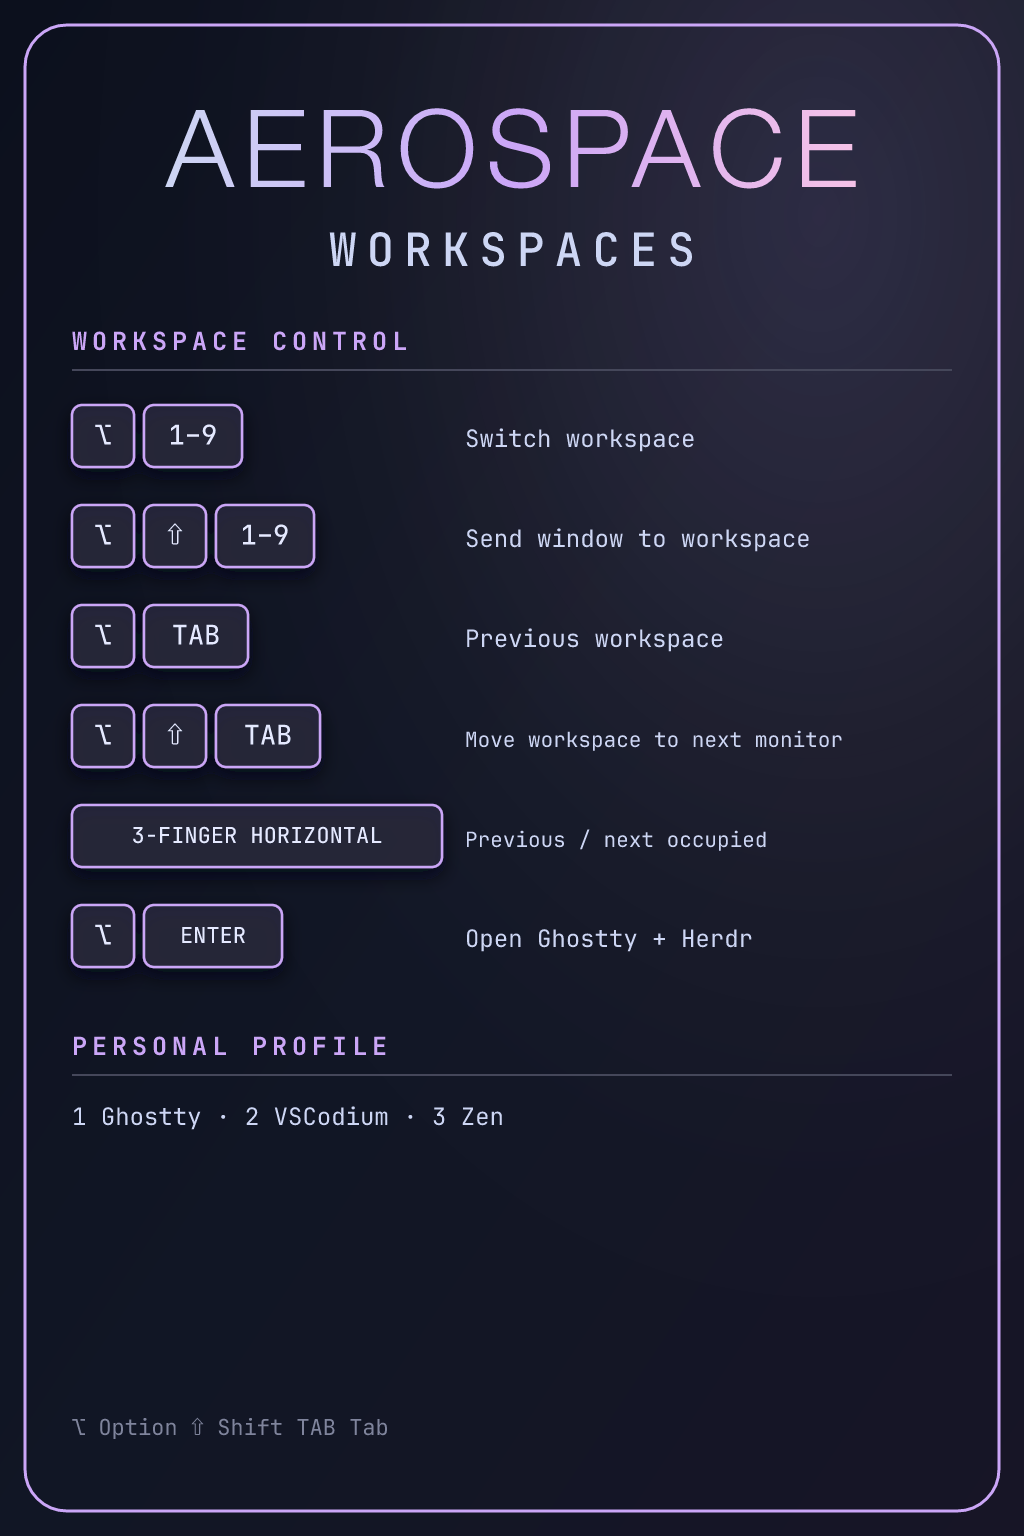
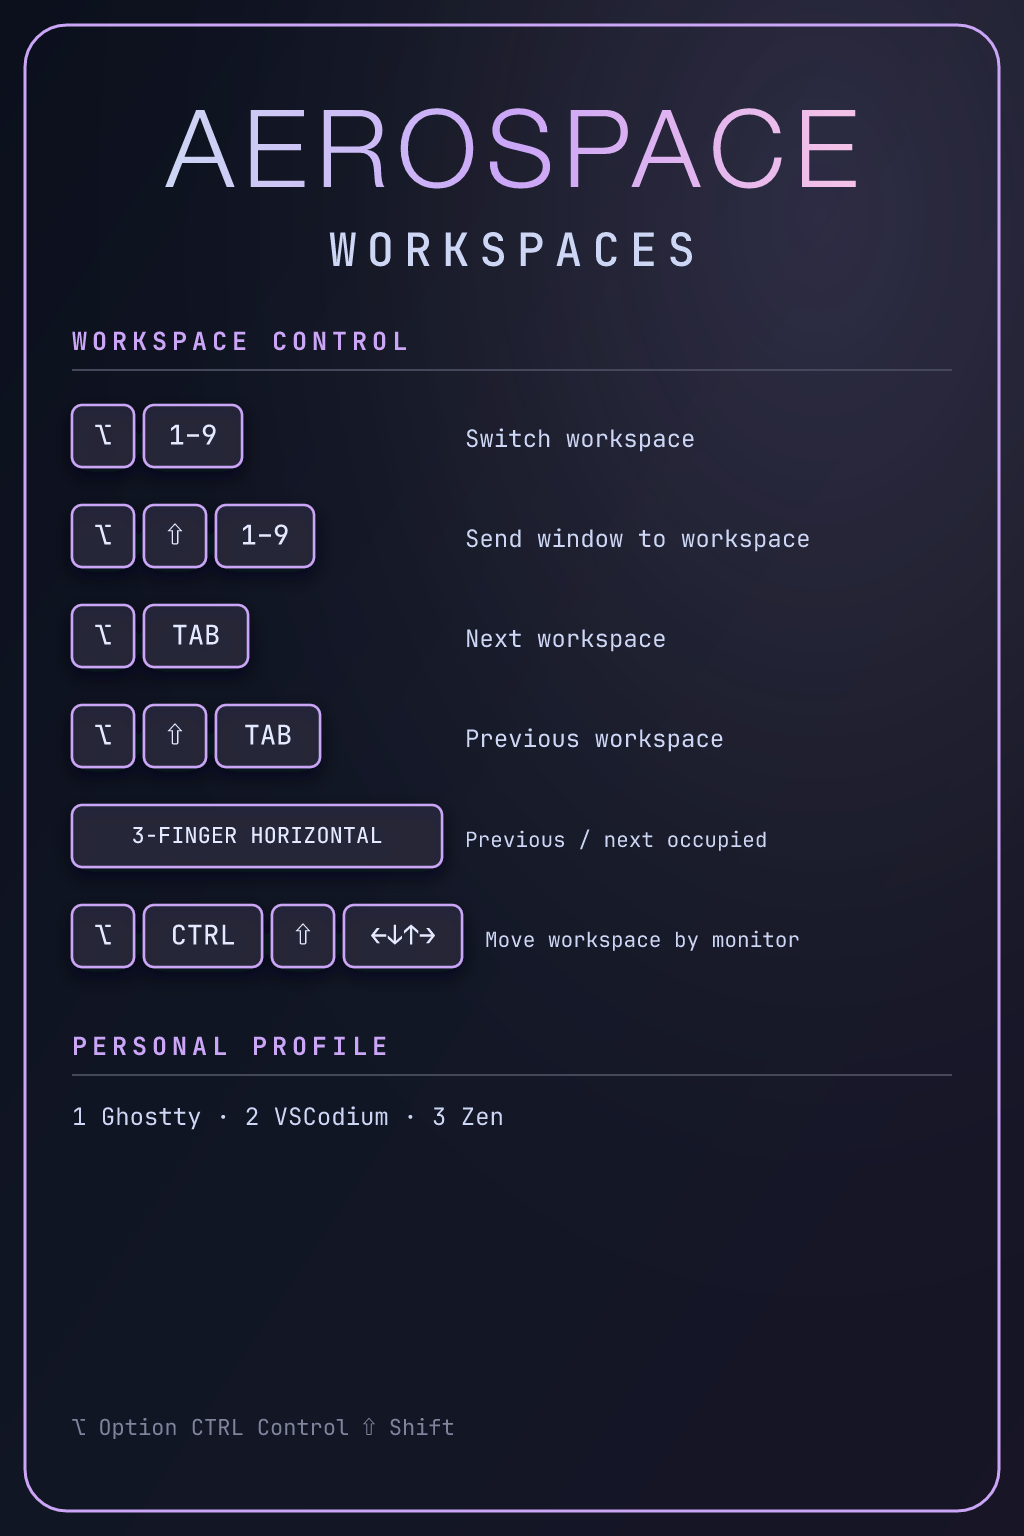
feat(aerospace): align navigation with Omarchy

diff --git a/docs/aerospace.md b/docs/aerospace.md
@@ -6,9 +6,10 @@ title: AeroSpace
 # AeroSpace workflow and keybinding cheat sheet
 
 
-The AeroSpace config uses numbered workspaces, Vim-style navigation, and fixed
-8px gaps. A supervised JankyBorders service provides focused-window
-highlighting. AeroSpace does not start SketchyBar, dynamic gap scripts, or tmux.
+The AeroSpace config uses numbered workspaces, Omarchy-compatible arrow-key
+navigation, optional Vim-style aliases, and fixed 8px gaps. A supervised
+JankyBorders service provides focused-window highlighting. AeroSpace does not
+start SketchyBar, dynamic gap scripts, or tmux.
 
 The `alt` modifier in the AeroSpace config is the macOS **Option (⌥)** key.
 Every modifier is written explicitly below; there is no implied `Mod` key.
@@ -82,14 +83,10 @@ restore.
 
 | Shortcut | Action |
 | --- | --- |
-| `Option (⌥) + H` | Focus the window to the left |
-| `Option (⌥) + J` | Focus the window below |
-| `Option (⌥) + K` | Focus the window above |
-| `Option (⌥) + L` | Focus the window to the right |
-| `Option (⌥) + Shift (⇧) + H` | Move the focused window left |
-| `Option (⌥) + Shift (⇧) + J` | Move the focused window down |
-| `Option (⌥) + Shift (⇧) + K` | Move the focused window up |
-| `Option (⌥) + Shift (⇧) + L` | Move the focused window right |
+| `Option (⌥) + Arrow` | Focus the window in that direction |
+| `Option (⌥) + H/J/K/L` | Focus left/down/up/right (Vim aliases) |
+| `Option (⌥) + Shift (⇧) + Arrow` | Move the focused window in that direction |
+| `Option (⌥) + Shift (⇧) + H/J/K/L` | Move left/down/up/right (Vim aliases) |
 | `Option (⌥) + Shift (⇧) + M` | Move the focused window to the next monitor and follow it |
 | `Option (⌥) + -` | Shrink the focused window by 50 pixels |
 | `Option (⌥) + =` | Grow the focused window by 50 pixels |
@@ -100,6 +97,7 @@ restore.
 | --- | --- |
 | `Option (⌥) + /` | Cycle tiled layout orientation |
 | `Option (⌥) + ,` | Cycle accordion layout orientation |
+| `Option (⌥) + T` | Toggle floating/tiling (Omarchy binding) |
 | `Option (⌥) + Shift (⇧) + Space` | Toggle floating/tiling |
 | `Option (⌥) + F` | Toggle native macOS fullscreen |
 | `Option (⌥) + Q` | Close the focused window |
@@ -123,12 +121,24 @@ bindings.
 | --- | --- |
 | `Option (⌥) + 1–9` | Switch to workspace 1–9 |
 | `Option (⌥) + Shift (⇧) + 1–9` | Move the focused window to workspace 1–9 |
-| `Option (⌥) + Tab (⇥)` | Switch to the previous workspace |
-| `Option (⌥) + Shift (⇧) + Tab (⇥)` | Move the current workspace to the next monitor |
+| `Option (⌥) + Tab (⇥)` | Switch to the next workspace |
+| `Option (⌥) + Shift (⇧) + Tab (⇥)` | Switch to the previous workspace |
+| `Option (⌥) + Control (⌃) + Tab (⇥)` | Return to the formerly focused workspace |
+| `Option (⌥) + Control (⌃) + Shift (⇧) + Arrow` | Move the current workspace to the monitor in that direction |
 
 [Open the full-size AeroSpace workspace shortcut card](assets/aerospace-workspaces-shortcuts.png).
 
 <a href="assets/aerospace-workspaces-shortcuts.png"><img src="assets/aerospace-workspaces-shortcuts.png" alt="AeroSpace workspace shortcut card" width="520"></a>
+
+The directional workspace move carries the entire AeroSpace workspace tree,
+including joined containers, to the other display. AeroSpace can create local
+groups with `join-with` in service mode, but it cannot currently select and move
+an arbitrary parent group by itself. Move the whole workspace when a joined
+group must stay intact across monitors.
+
+Finder, System Settings, and Calculator windows start floating. A Finder window
+can still be tiled with `Option (⌥) + T`, moved normally, or minimized with the
+standard macOS control.
 
 ### Resize mode
 

diff --git a/docs/research/omarchy-aerospace-keybindings.md b/docs/research/omarchy-aerospace-keybindings.md
@@ -1,0 +1,41 @@
+---
+layout: default
+title: Omarchy and AeroSpace keybindings
+---
+
+# Omarchy and AeroSpace keybindings
+
+## Question
+
+Which current Omarchy navigation bindings can AeroSpace reproduce on macOS,
+including grouping and moving groups between monitors?
+
+## Findings
+
+Omarchy uses `Super + Arrow` to focus windows, `Super + Shift + Arrow` to move
+them, `Super + Tab` and `Super + Shift + Tab` for next and previous workspaces,
+and `Super + Shift + Alt + Arrow` to move an entire workspace to the adjacent
+monitor. It also uses `Super + T` for floating/tiling. These bindings are in the
+[official Omarchy tiling configuration](https://github.com/basecamp/omarchy/blob/93010924047d09f62f702bf8b5c07d0149c11943/default/hypr/bindings/tiling.lua).
+
+This AeroSpace setup treats macOS Option as Omarchy's Super modifier. Control
+takes the place of Omarchy's additional Alt modifier, so moving a whole
+workspace uses `Option + Control + Shift + Arrow`. Existing Vim-style H/J/K/L
+bindings remain as aliases.
+
+AeroSpace's [`join-with` command](https://nikitabobko.github.io/AeroSpace/commands#join-with)
+creates a common parent container for the focused window and its directional
+neighbor. However, [`move-node-to-monitor`](https://nikitabobko.github.io/AeroSpace/commands#move-node-to-monitor)
+moves the focused window rather than that parent container. Direct root or
+parent-container movement remains an
+[open AeroSpace request](https://github.com/nikitabobko/AeroSpace/issues/940).
+
+## Decision
+
+Match Omarchy's arrow, workspace-cycle, floating, and whole-workspace monitor
+bindings. Keep service-mode `join-with` for arranging local groups. To move a
+group intact across displays, move its entire workspace; do not present focused
+window movement as group movement.
+
+Finder is a floating utility by default, matching the requested macOS workflow.
+Floating is only its initial layout and can be toggled with `Option + T`.
